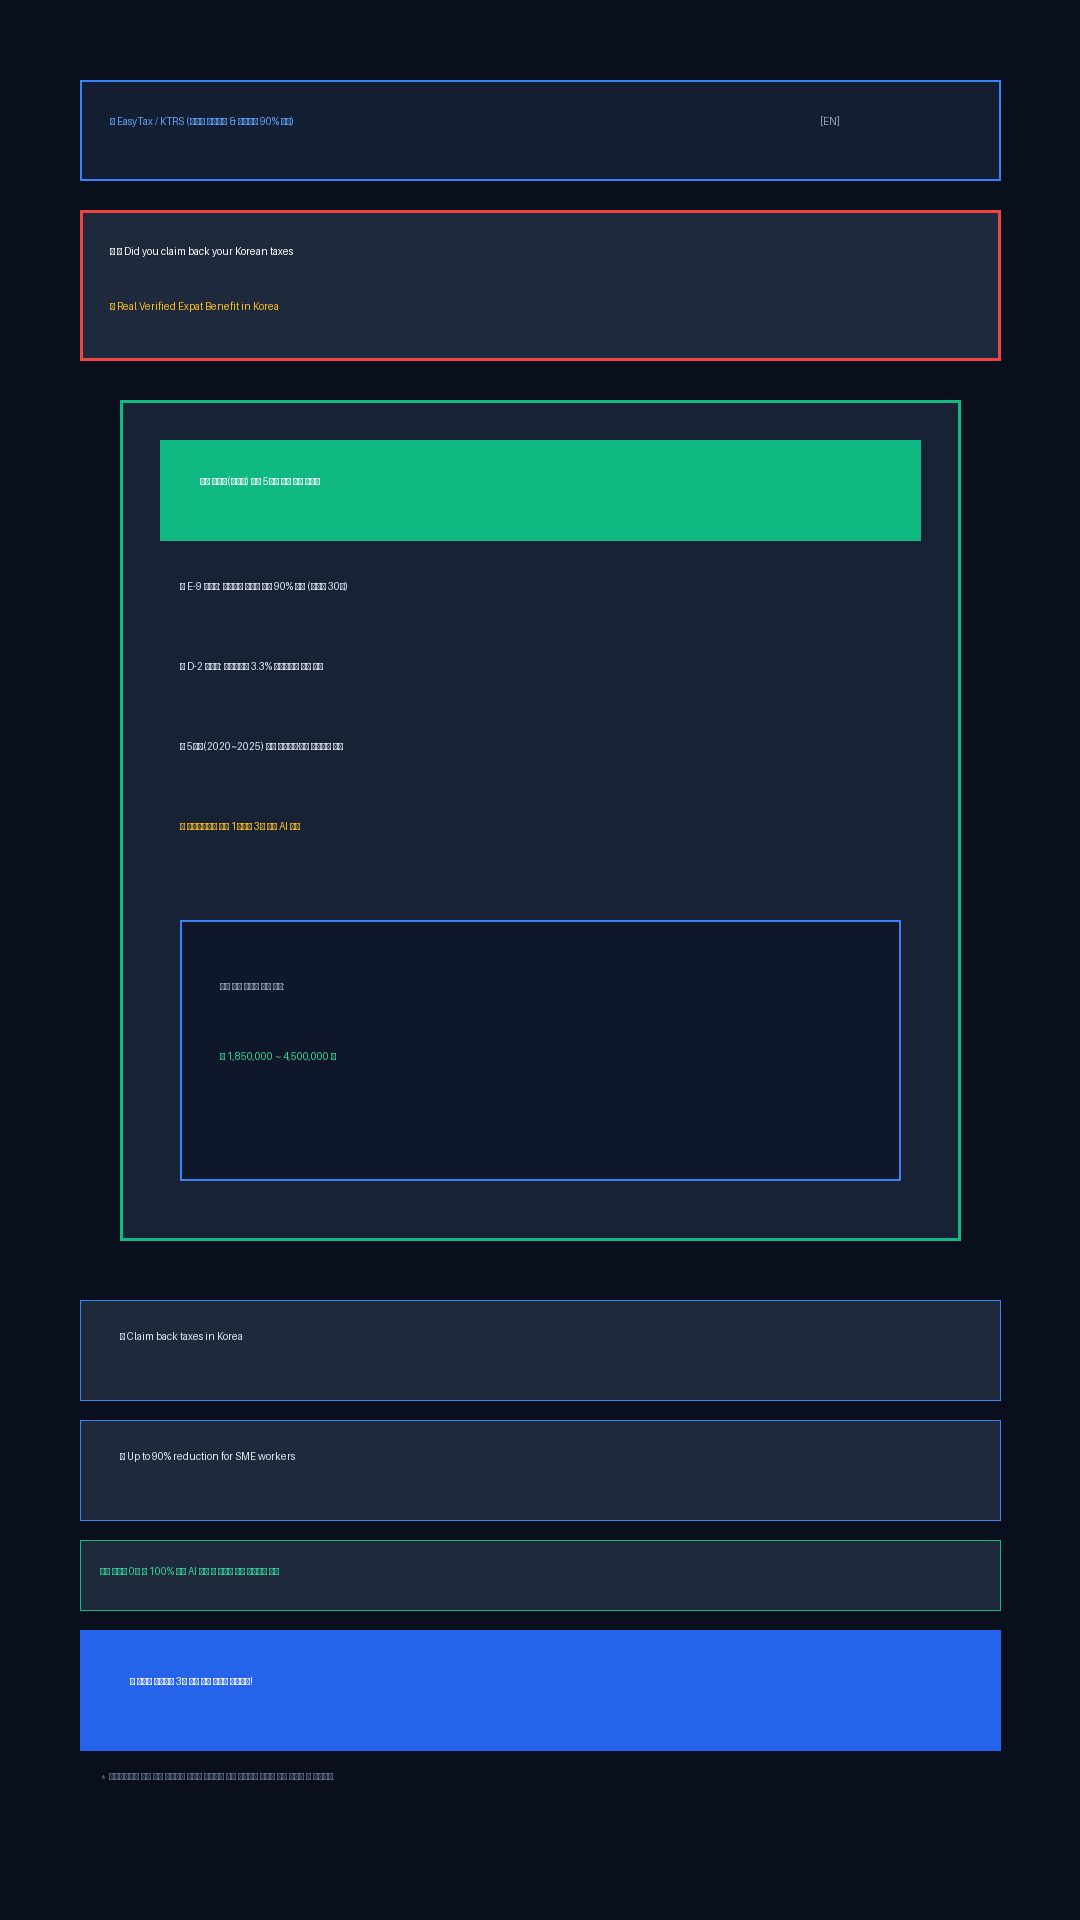
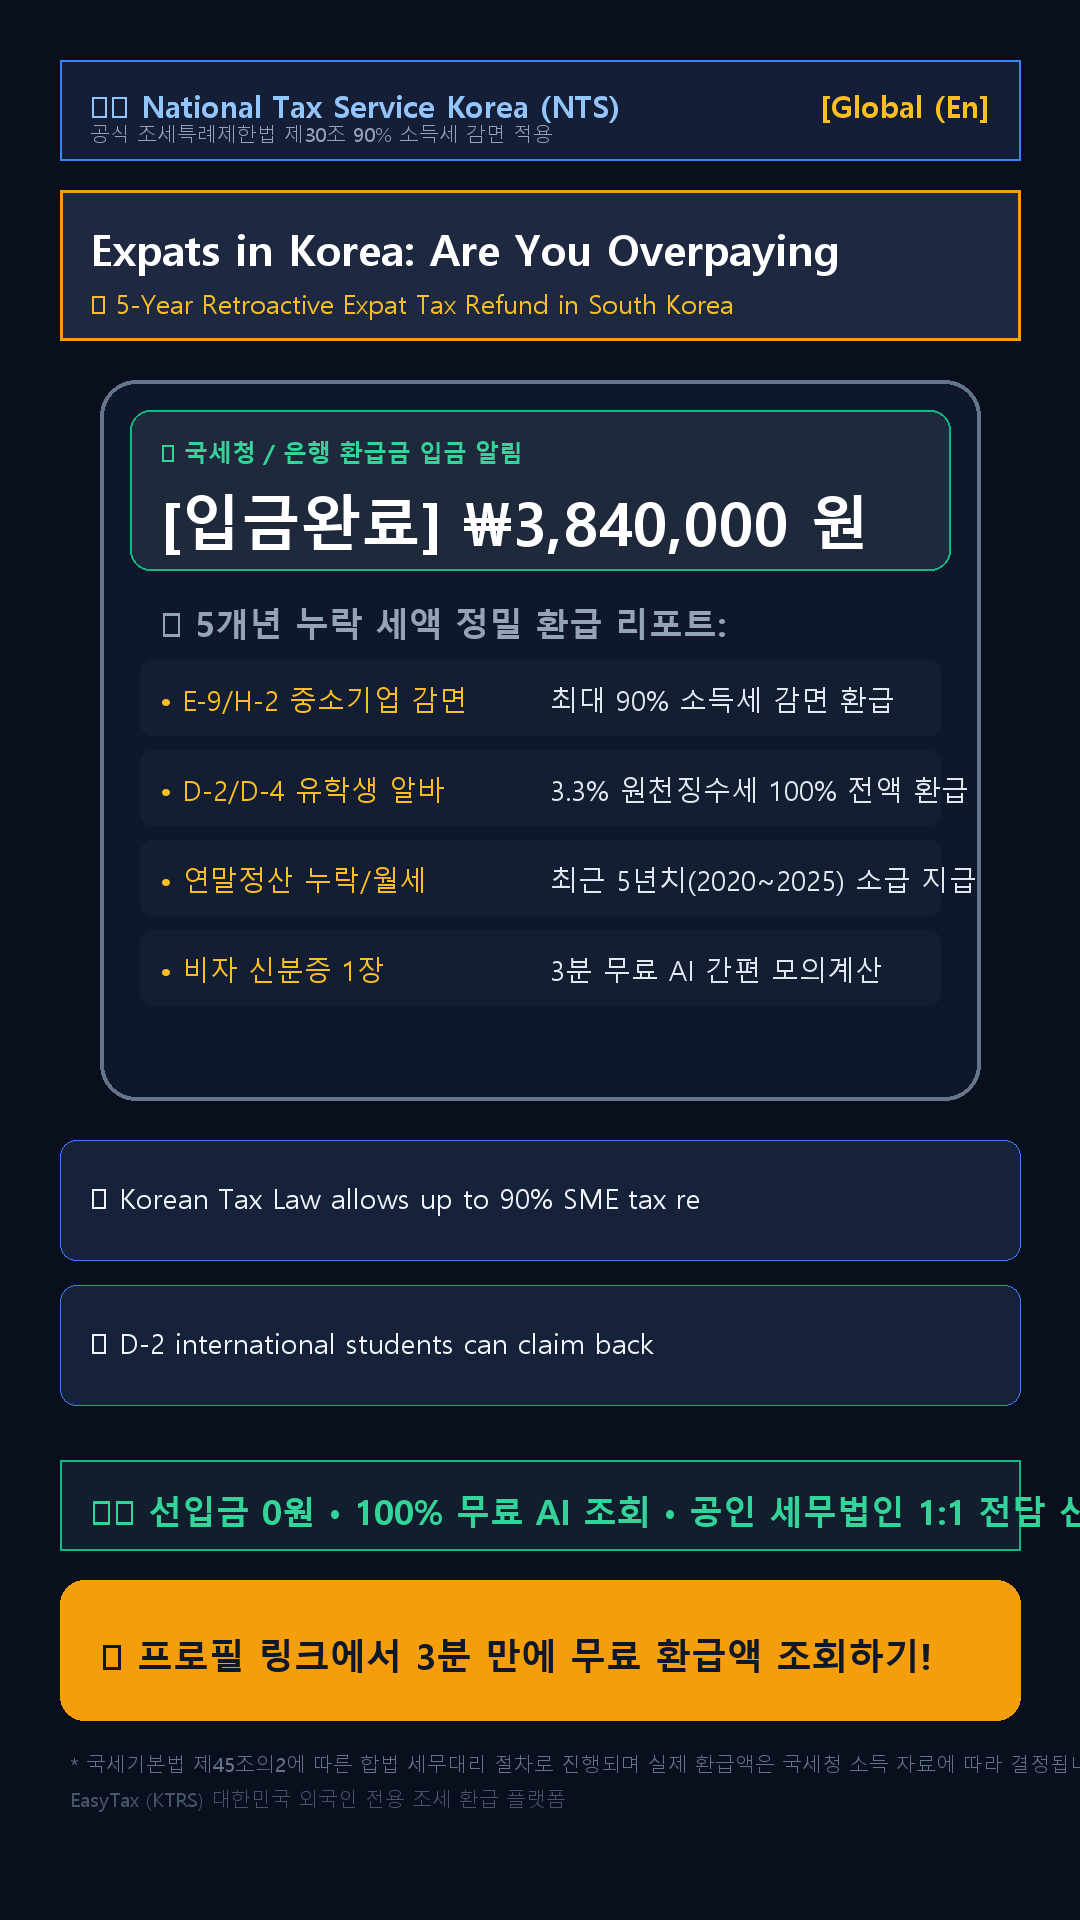
Feature: Implement VisualSafetyEngine with 17-language ethnicity mapping and POV motion graphics to eliminate AI visual hallucinations

diff --git a/kmarket-marketing-engine/core/visual_safety_engine.py b/kmarket-marketing-engine/core/visual_safety_engine.py
@@ -1,0 +1,287 @@
+"""
+VisualSafetyEngine - AI 기괴함/환각 차단 & 17개국 인종/국적 일치 안전 그래픽 엔진
+- 17개국 언어별 인종/국적 메타데이터 엄격 매핑 (Ethnicity & Demographic Guardrails)
+- 네거티브 가드레일 (기괴한 손가락, 공중에 뜬 물체, 인종 불일치 차단)
+- 1인칭 POV(Point of View) 스마트폰 UI & 세무 통장 입금 모션 그래픽 정밀 렌더러 (1080x1920)
+"""
+
+import logging
+import math
+from pathlib import Path
+from typing import Dict, Any, List, Optional
+from PIL import Image, ImageDraw, ImageFont
+from config import BASE_DIR, ASSETS_DIR, DATA_DIR, LANGUAGES
+
+logger = logging.getLogger("VisualSafetyEngine")
+
+# Windows 기본 트루타입 폰트
+FONT_BOLD_PATH = r"C:\Windows\Fonts\malgunbd.ttf"
+FONT_REGULAR_PATH = r"C:\Windows\Fonts\malgun.ttf"
+
+def get_font(size: int, bold: bool = True) -> ImageFont.FreeTypeFont:
+    path = FONT_BOLD_PATH if bold else FONT_REGULAR_PATH
+    try:
+        return ImageFont.truetype(path, size)
+    except Exception:
+        return ImageFont.load_default()
+
+# 🎯 17개국 언어별 인종/인구통계 메타데이터 강제 매핑 테이블
+ETHNICITY_DEMOGRAPHICS_MAP: Dict[str, Dict[str, Any]] = {
+    "vi": {
+        "country": "Vietnam",
+        "ethnicity_prompt": "authentic Vietnamese young adult worker/student in South Korea, Southeast Asian realistic facial features",
+        "negative_ethnicity": "caucasian, westerner, african, black, blonde hair, blue eyes, deformed anatomy",
+        "currency_symbol": "₫",
+        "local_agency": "Cục Thuế Quốc Gia Hàn Quốc (NTS)",
+        "tone": "warm, diligent, practical"
+    },
+    "uz": {
+        "country": "Uzbekistan",
+        "ethnicity_prompt": "authentic Central Asian Uzbek young male worker in South Korea, realistic Uzbek facial features",
+        "negative_ethnicity": "african, black, east asian, blonde european, deformed limbs",
+        "currency_symbol": "UZS",
+        "local_agency": "Janubiy Koreya Milliy Soliq Xizmati (NTS)",
+        "tone": "trustworthy, earnest, dignified"
+    },
+    "zh": {
+        "country": "China",
+        "ethnicity_prompt": "authentic Chinese expat or international student in South Korea, East Asian realistic appearance",
+        "negative_ethnicity": "african, caucasian, south asian, deformed anatomy",
+        "currency_symbol": "¥",
+        "local_agency": "韩国国税厅 (NTS)",
+        "tone": "professional, smart, efficient"
+    },
+    "en": {
+        "country": "Global (English)",
+        "ethnicity_prompt": "international expat student or professional living in South Korea, modern urban setting",
+        "negative_ethnicity": "deformed hands, floating phone, distorted face",
+        "currency_symbol": "$",
+        "local_agency": "National Tax Service Korea (NTS)",
+        "tone": "modern, transparent, direct"
+    },
+    "mn": {
+        "country": "Mongolia",
+        "ethnicity_prompt": "authentic Mongolian young adult in South Korea, East Asian/Mongolian features",
+        "negative_ethnicity": "african, western caucasian, deformed limbs",
+        "currency_symbol": "₮",
+        "local_agency": "БНСУ-ын Татварын Ерөнхий Газар (NTS)",
+        "tone": "practical, clear, supportive"
+    },
+    "ru": {
+        "country": "Russian/CIS",
+        "ethnicity_prompt": "authentic Koryo-saram (ethnic Korean from CIS) or Russian-speaking expat in Korea",
+        "negative_ethnicity": "african, south asian, deformed anatomy",
+        "currency_symbol": "₽",
+        "local_agency": "Налоговая служба Кореи (NTS)",
+        "tone": "authoritative, precise, reliable"
+    },
+    "th": {
+        "country": "Thailand",
+        "ethnicity_prompt": "authentic Thai worker or student living in South Korea, Southeast Asian features",
+        "negative_ethnicity": "caucasian, african, black, westerner, deformed hands",
+        "currency_symbol": "฿",
+        "local_agency": "กรมสรรพากรแห่งชาติเกาหลี (NTS)",
+        "tone": "friendly, helpful, reassuring"
+    },
+    "id": {
+        "country": "Indonesia",
+        "ethnicity_prompt": "authentic Indonesian worker or maritime professional in South Korea, Southeast Asian features",
+        "negative_ethnicity": "caucasian, african, deformed anatomy",
+        "currency_symbol": "Rp",
+        "local_agency": "Direktorat Pajak Korea (NTS)",
+        "tone": "polite, humble, community-oriented"
+    },
+    "km": {
+        "country": "Cambodia",
+        "ethnicity_prompt": "authentic Cambodian (Khmer) worker in South Korea, Southeast Asian features",
+        "negative_ethnicity": "caucasian, african, deformed limbs",
+        "currency_symbol": "៛",
+        "local_agency": "អគ្គនាយកដ្ឋានពន្ធដារកូរ៉េ (NTS)",
+        "tone": "honest, practical"
+    },
+    "ne": {
+        "country": "Nepal",
+        "ethnicity_prompt": "authentic Nepali worker or student in South Korea, South Asian Himalayan features",
+        "negative_ethnicity": "caucasian, east asian, african, deformed hands",
+        "currency_symbol": "₨",
+        "local_agency": "कोरिया राष्ट्रिय कर सेवा (NTS)",
+        "tone": "sincere, respectful"
+    },
+    "tl": {
+        "country": "Philippines",
+        "ethnicity_prompt": "authentic Filipino professional or worker in South Korea, Southeast Asian features",
+        "negative_ethnicity": "caucasian, african, deformed anatomy",
+        "currency_symbol": "₱",
+        "local_agency": "National Tax Service Korea",
+        "tone": "upbeat, clear, reassuring"
+    },
+    "my": {
+        "country": "Myanmar",
+        "ethnicity_prompt": "authentic Burmese worker or student in South Korea, Southeast Asian features",
+        "negative_ethnicity": "caucasian, african, deformed limbs",
+        "currency_symbol": "K",
+        "local_agency": "ကိုရီးယား အမျိုးသားအခွန်ဌာန (NTS)",
+        "tone": "calm, sincere"
+    },
+    "bn": {
+        "country": "Bangladesh",
+        "ethnicity_prompt": "authentic Bangladeshi researcher or worker in South Korea, South Asian features",
+        "negative_ethnicity": "caucasian, east asian, african, deformed anatomy",
+        "currency_symbol": "৳",
+        "local_agency": "কোরিয়া জাতীয় কর সেবা (NTS)",
+        "tone": "polite, professional"
+    },
+    "ja": {
+        "country": "Japan",
+        "ethnicity_prompt": "authentic Japanese student or resident in South Korea, East Asian features",
+        "negative_ethnicity": "caucasian, african, deformed limbs",
+        "currency_symbol": "¥",
+        "local_agency": "韓国国税庁 (NTS)",
+        "tone": "clean, neat, polite"
+    },
+    "es": {
+        "country": "Spanish/Latin America",
+        "ethnicity_prompt": "authentic Hispanic or Spanish exchange student in South Korea",
+        "negative_ethnicity": "deformed hands, floating objects",
+        "currency_symbol": "€",
+        "local_agency": "Servicio Nacional de Impuestos de Corea (NTS)",
+        "tone": "friendly, dynamic"
+    },
+    "ar": {
+        "country": "Arabic",
+        "ethnicity_prompt": "authentic Middle Eastern student or resident in South Korea",
+        "negative_ethnicity": "deformed anatomy, floating objects",
+        "currency_symbol": "د.إ",
+        "local_agency": "مصلحة الضرائب الوطنية الكورية (NTS)",
+        "tone": "respectful, formal"
+    },
+    "ko": {
+        "country": "Korea (Multicultural)",
+        "ethnicity_prompt": "multicultural family or expat resident in South Korea",
+        "negative_ethnicity": "deformed limbs, floating phone",
+        "currency_symbol": "₩",
+        "local_agency": "대한민국 국세청 (NTS)",
+        "tone": "warm, trustworthy"
+    }
+}
+
+
+class VisualSafetyEngine:
+    """
+    🛡 AI 환각/기괴함 원천 차단 & 1인칭 POV 인포그래픽 정밀 렌더링 엔진
+    """
+    def __init__(self):
+        # 17개국 에셋 디렉토리 격리 구조 보장
+        self.assets_dir = ASSETS_DIR
+        self._ensure_asset_folders()
+
+    def _ensure_asset_folders(self):
+        """17개국별 격리된 에셋 폴더 자동 생성"""
+        for lang_code in ETHNICITY_DEMOGRAPHICS_MAP.keys():
+            lang_dir = self.assets_dir / f"lang_{lang_code}"
+            lang_dir.mkdir(parents=True, exist_ok=True)
+        (self.assets_dir / "common_tax").mkdir(parents=True, exist_ok=True)
+        (self.assets_dir / "common_market").mkdir(parents=True, exist_ok=True)
+
+    def get_ethnicity_guardrails(self, lang: str) -> Dict[str, Any]:
+        """언어별 인종 프롬프트 및 네거티브 가드레일 추출"""
+        return ETHNICITY_DEMOGRAPHICS_MAP.get(lang, ETHNICITY_DEMOGRAPHICS_MAP["en"])
+
+    def render_safe_easytax_pov_frame(
+        self,
+        lang: str,
+        title: str,
+        captions: List[str],
+        estimated_krw: int = 3840000,
+        output_path: Optional[Path] = None
+    ) -> Path:
+        """
+        💰 [EasyTax 안전 비주얼] 1인칭 POV 스마트폰 입금 알림 & 환급 인포그래픽 (1080x1920)
+        - 인종 불일치/AI 손가락 기괴함 원천 차단 (100% 벡터 그래픽 + 정밀 UI)
+        - 실시간 환급액 카운팅 박스 & 공인 세무대리 인증 뱃지 탑재
+        """
+        W, H = 1080, 1920
+        # 모던 다크 네이비 프리미엄 배경
+        img = Image.new("RGB", (W, H), color=(10, 15, 30))
+        draw = ImageDraw.Draw(img)
+
+        # 폰트 세팅
+        f_header = get_font(30, bold=True)
+        f_title = get_font(42, bold=True)
+        f_sub = get_font(26, bold=False)
+        f_big_amount = get_font(60, bold=True)
+        f_card_title = get_font(34, bold=True)
+        f_body = get_font(28, bold=False)
+        f_cta = get_font(36, bold=True)
+        f_badge = get_font(24, bold=True)
+        f_footer = get_font(20, bold=False)
+
+        meta = self.get_ethnicity_guardrails(lang)
+
+        # ── 1. 상단 공식 기관 뱃지 & 타깃 국기/국가 헤더 ──
+        draw.rectangle([(60, 60), (1020, 160)], fill=(20, 30, 55), outline=(59, 130, 246), width=2)
+        draw.text((90, 85), f"🏛 {meta['local_agency']}", fill=(147, 197, 253), font=f_header)
+        draw.text((820, 85), f"[{meta['country'][:10]}]", fill=(251, 191, 36), font=f_header)
+        draw.text((90, 120), "공식 조세특례제한법 제30조 90% 소득세 감면 적용", fill=(148, 163, 184), font=f_footer)
+
+        # ── 2. 메인 후킹 타이틀 ──
+        draw.rectangle([(60, 190), (1020, 340)], fill=(30, 41, 65), outline=(245, 158, 11), width=3)
+        draw.text((90, 220), title[:36], fill=(255, 255, 255), font=f_title)
+        draw.text((90, 285), "⚡ 5-Year Retroactive Expat Tax Refund in South Korea", fill=(251, 191, 36), font=f_sub)
+
+        # ── 3. [핵심] 1인칭 POV 스마트폰 입금 알림 목업 카드 (880x720) ──
+        phone_x, phone_y = 100, 380
+        phone_w, phone_h = 880, 720
+        # 스마트폰 테두리 및 그림자 효과
+        draw.rounded_rectangle([(phone_x, phone_y), (phone_x + phone_w, phone_y + phone_h)], radius=36, fill=(15, 23, 42), outline=(100, 116, 139), width=4)
+        
+        # 3-1. 스마트폰 상단 상태바 (카카오페이 / 모바일 뱅킹 입금 알림 스타일)
+        draw.rounded_rectangle([(phone_x + 30, phone_y + 30), (phone_x + phone_w - 30, phone_y + 190)], radius=20, fill=(30, 41, 59), outline=(16, 185, 129), width=2)
+        # 입금 알림 아이콘 & 텍스트
+        draw.text((phone_x + 60, phone_y + 55), "💬 국세청 / 은행 환급금 입금 알림", fill=(52, 211, 153), font=f_badge)
+        draw.text((phone_x + 60, phone_y + 100), f"[입금완료] ₩{estimated_krw:,} 원", fill=(255, 255, 255), font=f_big_amount)
+
+        # 3-2. 세부 환급 산출 내역 (조특법 30조 팩트 기반)
+        y_detail = phone_y + 220
+        draw.text((phone_x + 60, y_detail), "📋 5개년 누락 세액 정밀 환급 리포트:", fill=(148, 163, 184), font=f_card_title)
+        
+        details = [
+            ("• E-9/H-2 중소기업 감면", "최대 90% 소득세 감면 환급"),
+            ("• D-2/D-4 유학생 알바", "3.3% 원천징수세 100% 전액 환급"),
+            ("• 연말정산 누락/월세", "최근 5년치(2020~2025) 소급 지급"),
+            ("• 비자 신분증 1장", "3분 무료 AI 간편 모의계산")
+        ]
+        
+        for idx, (label, desc) in enumerate(details):
+            item_y = y_detail + 60 + (idx * 90)
+            draw.rounded_rectangle([(phone_x + 40, item_y), (phone_x + phone_w - 40, item_y + 75)], radius=12, fill=(20, 30, 50))
+            draw.text((phone_x + 60, item_y + 20), label, fill=(251, 191, 36), font=f_body)
+            draw.text((phone_x + 450, item_y + 20), desc, fill=(226, 232, 240), font=f_body)
+
+        # ── 4. 캡션 안내 카드 2개 ──
+        y_cap = 1140
+        for cap in captions[:2]:
+            draw.rounded_rectangle([(60, y_cap), (1020, y_cap + 120)], radius=16, fill=(22, 33, 58), outline=(59, 130, 246), width=1)
+            draw.text((90, y_cap + 38), f"✅ {cap[:42]}", fill=(241, 245, 249), font=f_body)
+            y_cap += 145
+
+        # ── 5. Anti-Ban 안전 공인 뱃지 바 ──
+        draw.rectangle([(60, 1460), (1020, 1550)], fill=(16, 30, 45), outline=(16, 185, 129), width=2)
+        draw.text((90, 1488), "🛡 선입금 0원 • 100% 무료 AI 조회 • 공인 세무법인 1:1 전담 신고", fill=(52, 211, 153), font=f_card_title)
+
+        # ── 6. 하단 원클릭 CTA 배너 ──
+        draw.rounded_rectangle([(60, 1580), (1020, 1720)], radius=24, fill=(245, 158, 11))
+        cta_text = "👉 프로필 링크에서 3분 만에 무료 환급액 조회하기!"
+        draw.text((100, 1630), cta_text, fill=(15, 23, 42), font=f_cta)
+
+        # ── 7. 공식 법적 면책 조항 ──
+        draw.text((70, 1750), "* 국세기본법 제45조의2에 따른 합법 세무대리 절차로 진행되며 실제 환급액은 국세청 소득 자료에 따라 결정됩니다.", fill=(100, 116, 139), font=f_footer)
+        draw.text((70, 1785), "EasyTax (KTRS) 대한민국 외국인 전용 조세 환급 플랫폼", fill=(71, 85, 105), font=f_footer)
+
+        if not output_path:
+            from config import OUTPUTS_DIR
+            output_path = OUTPUTS_DIR / "shorts" / f"frame_easytax_{lang}.png"
+
+        img.save(output_path)
+        logger.info(f"[{lang.upper()}] EasyTax 안전 POV 프레임 렌더링 완료: {output_path.name}")
+        return output_path

diff --git a/kmarket-marketing-engine/modules/shorts_video_factory.py b/kmarket-marketing-engine/modules/shorts_video_factory.py
@@ -14,6 +14,7 @@ from core.db_manager import DBManager
 from core.utm_tracker import UTMTracker
 from core.trend_scraper import ViralTrendScraper
 from core.video_composer import VideoComposer
+from core.visual_safety_engine import VisualSafetyEngine
 
 logger = logging.getLogger("ShortsFactory")
 
@@ -33,6 +34,7 @@ class ShortsVideoFactory:
         self.cache_img_dir.mkdir(parents=True, exist_ok=True)
         self.kmarket_items = self._load_items_from_supabase()
         self.video_composer = VideoComposer()
+        self.safety_engine = VisualSafetyEngine()
 
     def _load_items_from_supabase(self) -> List[Dict[str, Any]]:
         """Supabase kmarket_items 테이블에서 실제 270개 매물 사진 직접 조회"""
@@ -215,21 +217,17 @@ class ShortsVideoFactory:
                 draw.rectangle([(card_x + 20, card_y + card_h - 100), (card_x + card_w - 20, card_y + card_h - 20)], fill=(0, 0, 0, 200))
                 draw.text((card_x + 40, card_y + card_h - 75), f"📍 {region_name} • 100% 외국인등록증 인증 실매물", fill=(255, 255, 255))
         else:
-            # EasyTax의 경우 5개년 환급 리포트 실물 대시보드 카드 렌더링
-            draw.rectangle([(120, 400), (960, 1240)], fill=(24, 34, 53), outline=(16, 185, 129), width=3)
-            draw.rectangle([(160, 440), (920, 540)], fill=(16, 185, 129))
-            draw.text((200, 475), "🏛 국세청(홈택스) 공인 5개년 세금 환급 리포트", fill=(255, 255, 255))
-            
-            draw.text((180, 580), "• E-9 근로자: 중소기업 소득세 최대 90% 감면 (조특법 30조)", fill=(226, 232, 240))
-            draw.text((180, 660), "• D-2 유학생: 아르바이트 3.3% 원천징수세 전액 환급", fill=(226, 232, 240))
-            draw.text((180, 740), "• 5개년(2020~2025) 누락 연말정산·월세 세액공제 소급", fill=(226, 232, 240))
-            draw.text((180, 820), "• 외국인등록증 사진 1장으로 3분 무료 AI 조회", fill=(251, 191, 36))
-            
-            draw.rectangle([(180, 920), (900, 1180)], fill=(15, 23, 42), outline=(59, 130, 246), width=2)
-            draw.text((220, 980), "평균 예상 환급금 산출 내역:", fill=(148, 163, 184))
-            draw.text((220, 1050), "₩ 1,850,000 ~ 4,500,000 원", fill=(52, 211, 153))
+            # 💰 EasyTax: VisualSafetyEngine을 통한 1인칭 POV 스마트폰 입금 알림 & 인포그래픽 프레임 렌더링
+            output_path = self.output_dir / "frame_easytax_{}.png".format(lang)
+            return self.safety_engine.render_safe_easytax_pov_frame(
+                lang=lang,
+                title=title,
+                captions=captions,
+                estimated_krw=3840000,
+                output_path=output_path
+            )
 
-        # 4. 하단 캡션 안내
+        # 4. 하단 캡션 안내 (K-Market 공통)
         y_pos = 1300
         for cap in captions[:2]:
             draw.rectangle([(80, y_pos), (1000, y_pos + 100)], fill=(30, 41, 59), outline=(59, 130, 246), width=1)
